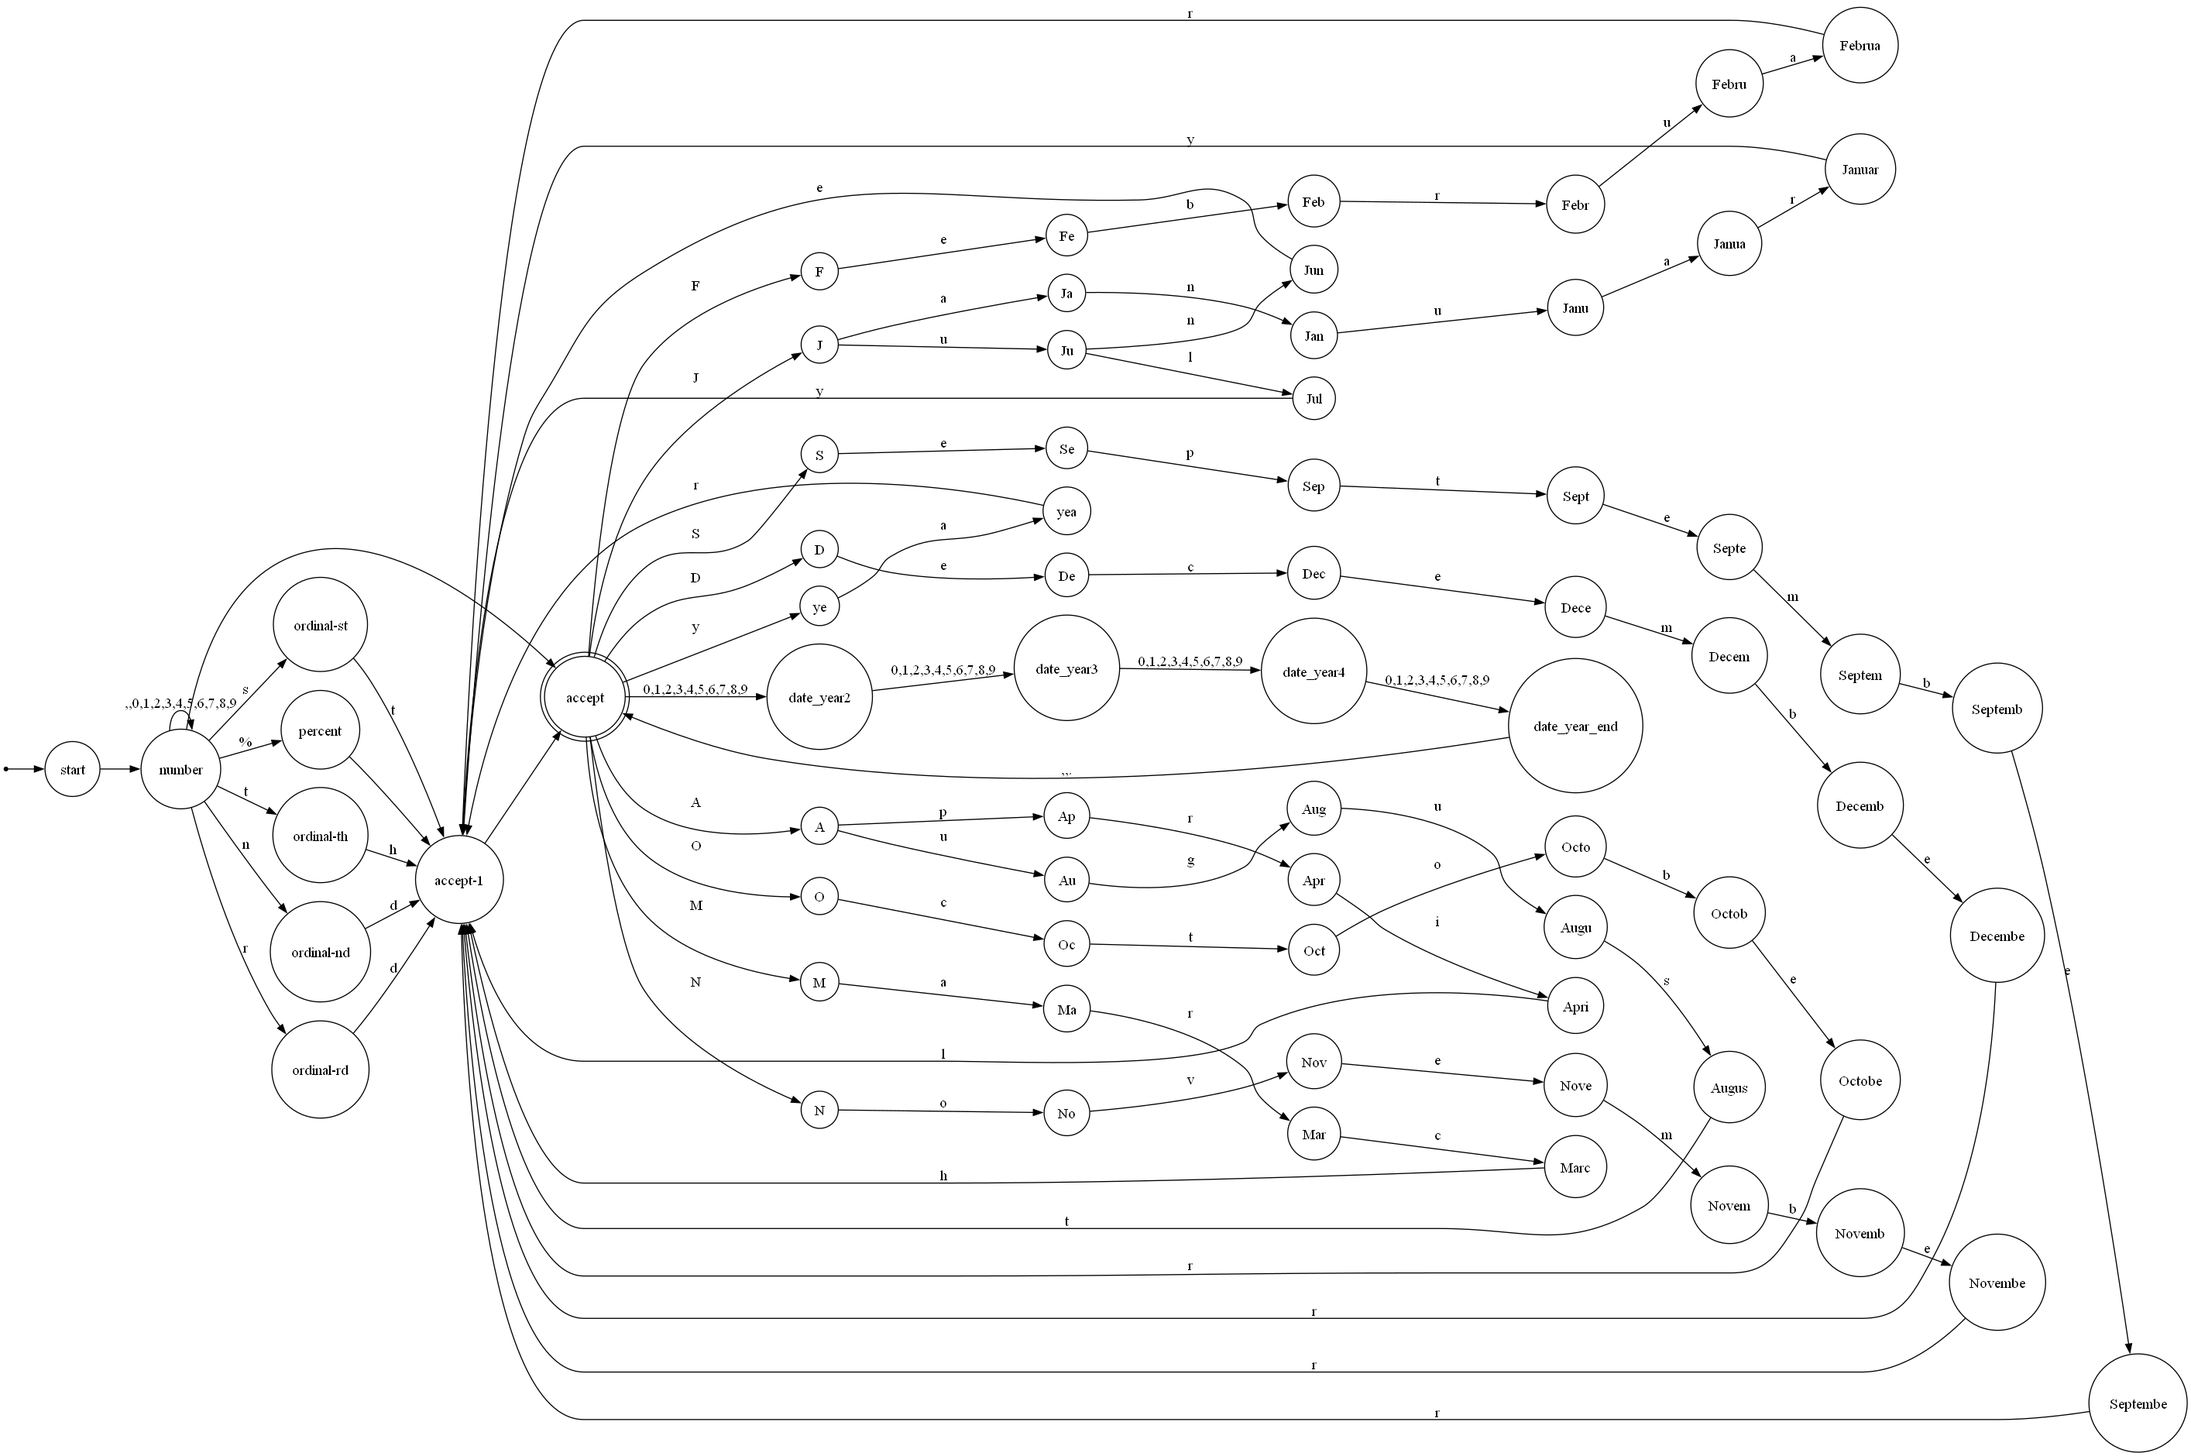
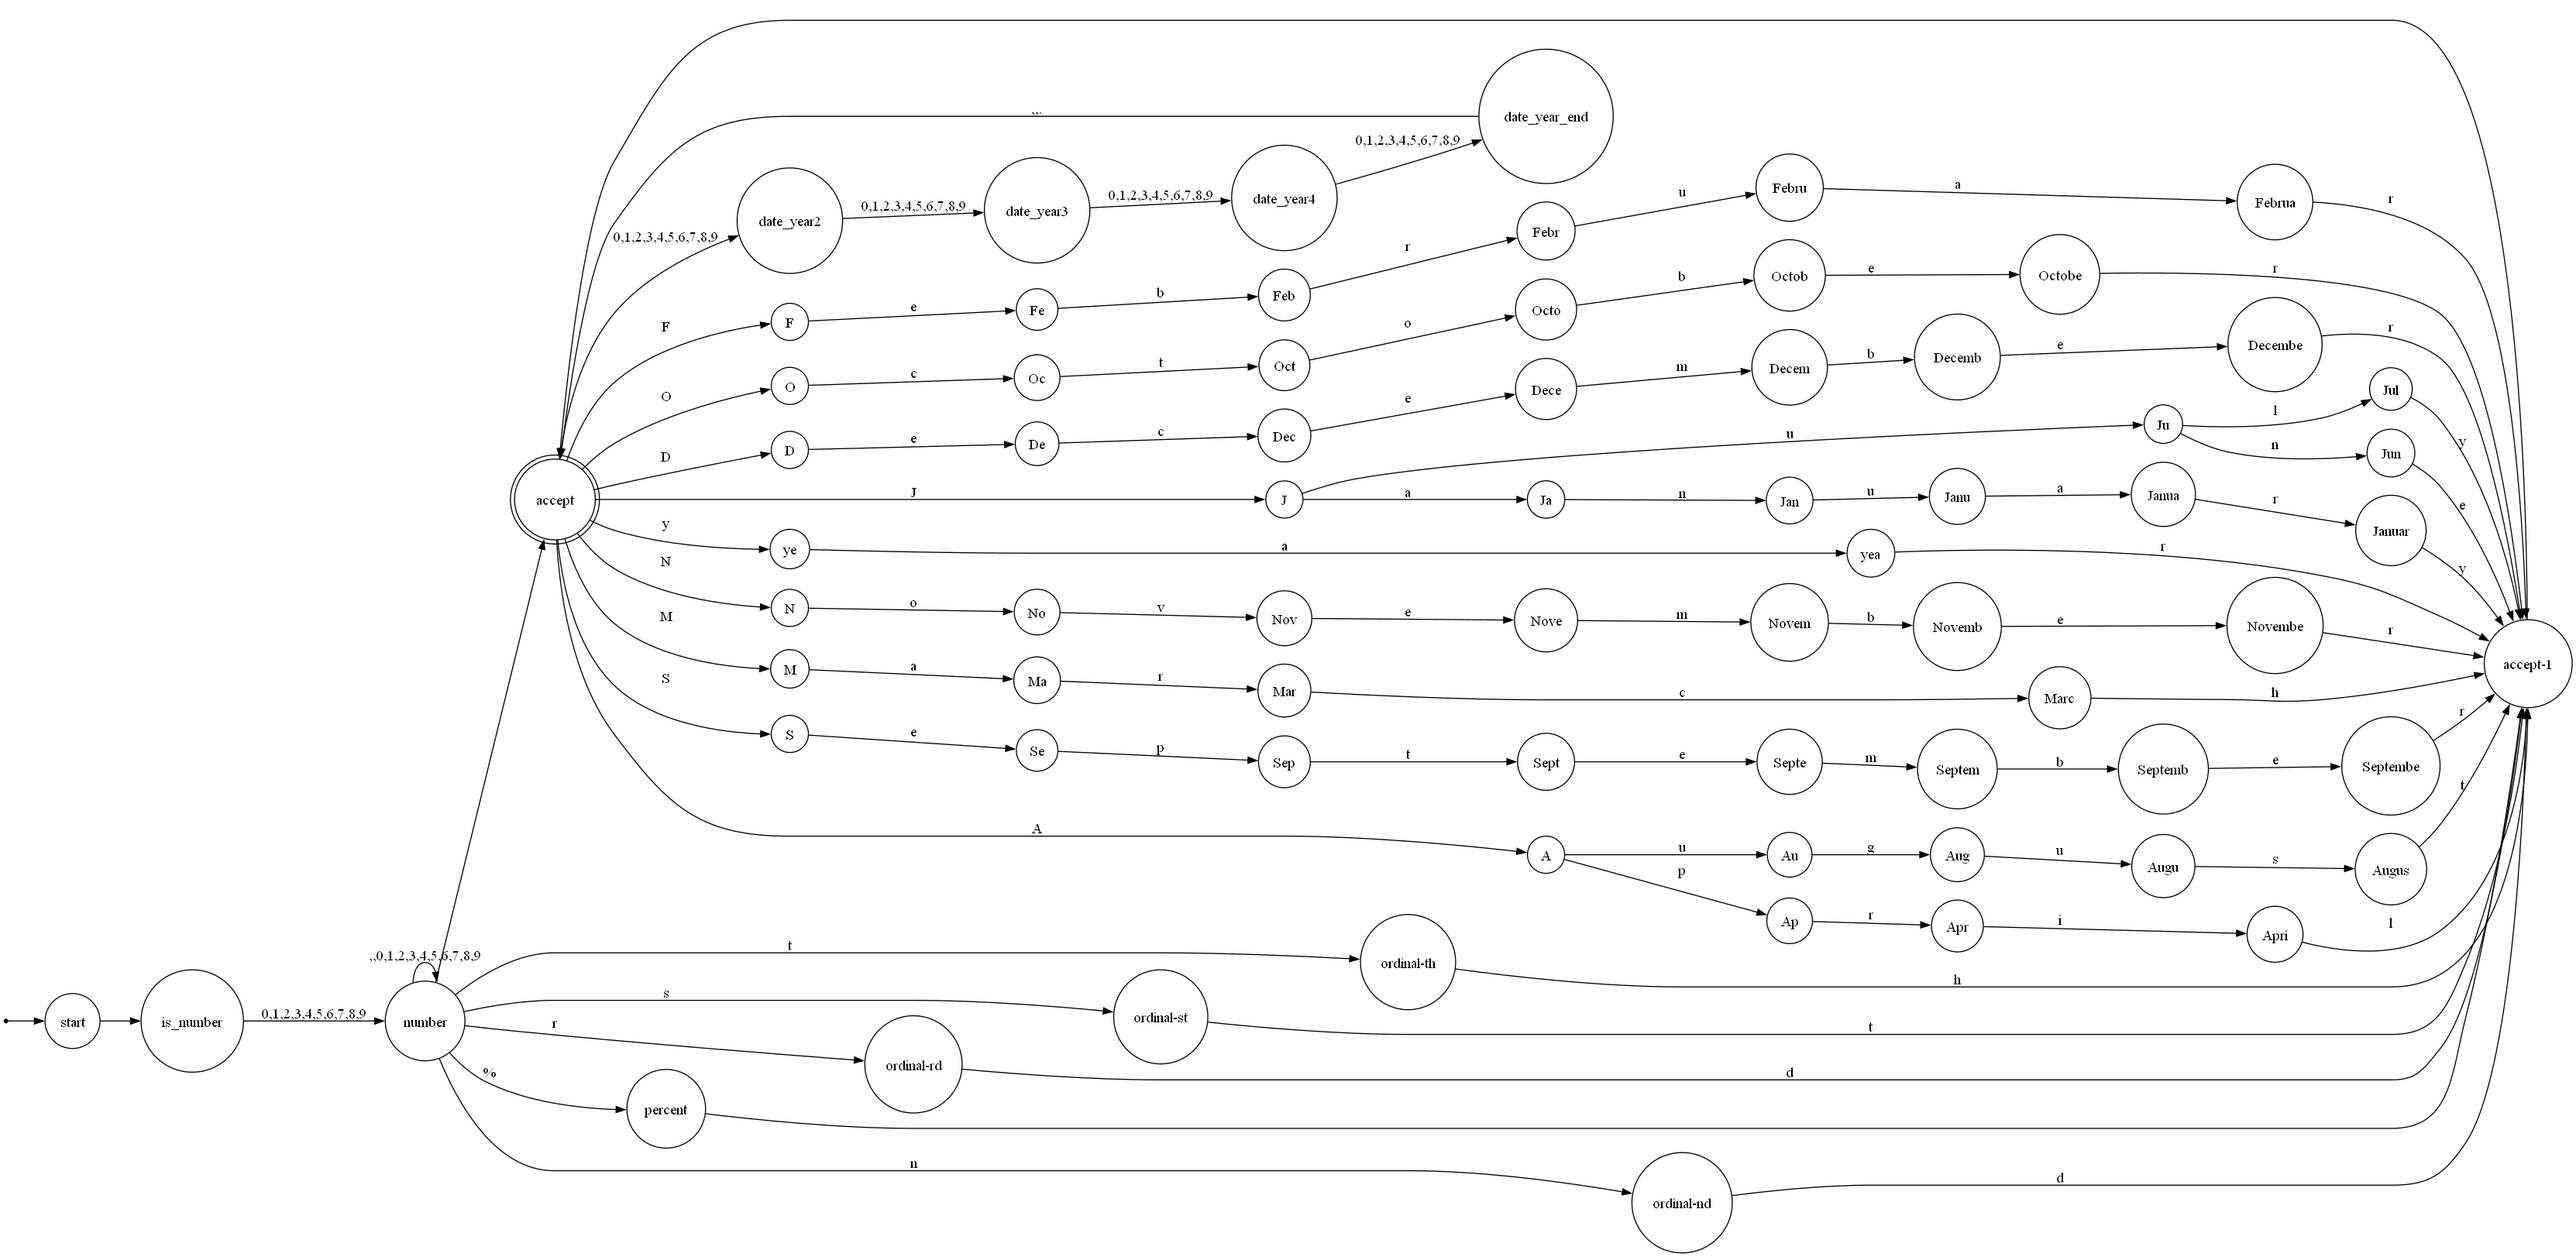
feat: Update DFA transitions to handle leading spaces in input

diff --git a/CPT411Assignment1.py b/CPT411Assignment1.py
@@ -1,10 +1,11 @@
 import tkinter as tk
 from tkinter import filedialog, scrolledtext
+from typing import Optional
 from automata.fa.dfa import DFA
 import pygraphviz as pgv
 
 states = {
-    'start', 'number', 'percent', 'ordinal-st', 'ordinal-nd', 'ordinal-rd', 'ordinal-th', 
+    'start', 'is_number', 'number', 'percent', 'ordinal-st', 'ordinal-nd', 'ordinal-rd', 'ordinal-th', 
     'accept-1', 'accept', 
     'J', 'Ja', 'Jan', 'Janu', 'Janua', 'Januar',
     'Ju', 'Jun', 'Jul', 
@@ -25,7 +26,10 @@ input_symbols = {
     '.', ','
 }
 transitions={
-    'start': {' ': 'number'},
+    'start': {' ': 'is_number'},
+    'is_number': {
+        '0': 'number', '1': 'number', '2': 'number', '3': 'number', '4': 'number', '5': 'number',
+        '6': 'number', '7': 'number', '8': 'number', '9': 'number'},
     'number': {
         '0': 'number', '1': 'number', '2': 'number', '3': 'number', '4': 'number', '5': 'number',
         '6': 'number', '7': 'number', '8': 'number', '9': 'number', ',': 'number',
@@ -135,14 +139,20 @@ allow_partial=True
 initial_state='start'
 final_states={'accept'}
 
-for key in transitions.keys():
-    print(key)
+# for key in transitions.keys():
+#     print(key)
+
+def crazy_mode():
+    transitions_trap={
+        'start': {' ': 'number'},
+    }
+    return
 
 dfa = DFA(states=states, input_symbols=input_symbols, transitions=transitions, initial_state=initial_state, final_states=final_states, allow_partial=allow_partial)
 
 
-def visualize_dfa():
-    graph = dfa.show_diagram()
+def visualize_dfa(text: Optional[str] = None):
+    graph = dfa.show_diagram(text)
     graph.draw('dfa_graph.png')
 
 def remove_newlines(article):
@@ -194,9 +204,6 @@ class App:
         result = '\n'.join(matched_strings)
         self.result_area.delete("1.0", tk.END)
         self.result_area.insert(tk.END, result)
-
-
-
 
     def load_file(self):
         file_path = filedialog.askopenfilename()
